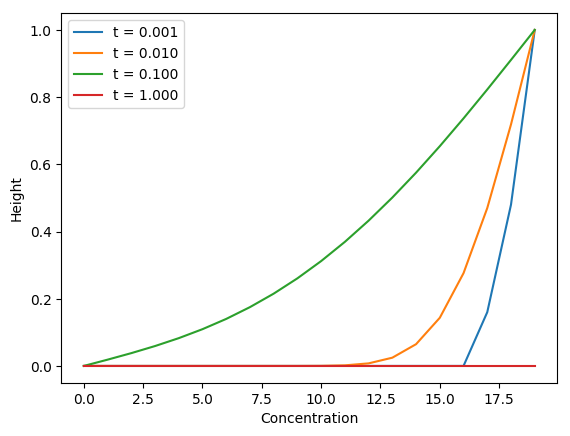
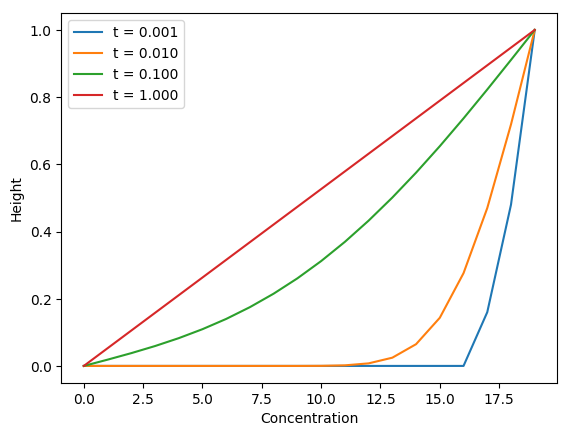
1.F Plot of state of the system

diff --git a/diffusion.py b/diffusion.py
@@ -14,6 +14,9 @@ def diffusion_func(grid, pt, i, j, D, N, delta_t, dx):
     # Bottom boundary condition.
     if (j == 0):
         return 0
+    # Incase no previous data.
+    if pt < 0:
+        return 0
     return (
         grid[pt][i][j] + (delta_t * D / dx ** 2) * (
             # Wrap around on the x-axis.
@@ -49,10 +52,11 @@ def getSimulation(D, N, delta_t, final_time=None, terminate_when=None):
         print("delta_t = {}".format(delta_t, final_time, iterations))
 
     grid = np.zeros(shape=(128, N, N))
-    # Run the simulation for every time step.
+    # Run the simulation, start by populating index t = 0.
     for t in itertools.count():
         # Stop when final index reached or termination condition.
-        if (final_time and t == iterations - 1
+        # When t = iterations we stop, final index is t - 1.
+        if (final_time and t == iterations 
             or terminate_when and t > 2 and terminate_when(grid[t - 1], grid[t - 2])):
             break
         # Resize array if size reached.
@@ -63,7 +67,7 @@ def getSimulation(D, N, delta_t, final_time=None, terminate_when=None):
             for j in range(N):
                 grid[t][i][j] = diffusion_func(
                     grid, t-1, i, j, D, N, delta_t, dx)
-    return grid[:t + 1]
+    return grid[:t]
 
 
 def makeAnimation(grid, show=False, save=False,
@@ -83,16 +87,19 @@ def makeAnimation(grid, show=False, save=False,
     save_indices = [
         min(len(grid) - 1, int(save_time * len(grid) ))
         for save_time in save_times]
-    print("Saving animation at times {}".format(save_times))
+    print("Saving animation at times {} indices {}".format(
+        save_times, save_indices))
     def animate(t):
         nonlocal im
         im.remove()
         im = plt.imshow(np.flipud(grid[t].T), cmap=cm.coolwarm)
-        plt.title("t = {0:.3f}".format(save_times[save_indices.index(t)]))
+        print(t)
         if t in save_indices:
+            plt.title("t = {}".format(save_times[save_indices.index(t)]))
             plt.savefig("animation-t-{}.png".format(
                 save_times[save_indices.index(t)]))
-    print(len(grid))
+        else:
+            plt.title("t = {0:.3f}".format(t / len(grid)))
     ani = FuncAnimation(plt.gcf(), animate, frames=len(grid), interval=1)
     if show:
         plt.show()
@@ -127,8 +134,15 @@ def plotAtTimes(grid, N, times=[0.001, 0.01, 0.1, 1.0], show=False, save=False):
 
 
 if __name__ == "__main__":
-    grid = getSimulation(D=1, N=20, delta_t=0.001, final_time=1)
-    # two_epsilon = lambda a, b: (a - b < 2 * np.finfo(np.float32).eps).all()
-    # grid = getSimulation(D=1, N=20, delta_t=0.001, terminate_when=two_epsilon)
-    makeAnimation(grid, show=True, save=False)
-    # plotAtTimes(grid, N=10, show=False, save=True)
+    D = 1
+    N = 20
+    delta_t = 0.001
+    final_time = 1
+    two_epsilon = lambda a, b: (a - b < 2 * np.finfo(np.float32).eps).all()
+
+    grid = getSimulation(D=D, N=N, delta_t=delta_t, final_time=final_time)
+    # grid = getSimulation(
+        # D=1, N=20, delta_t=delta_t, terminate_when=two_epsilon)
+
+    # makeAnimation(grid, show=True, save=True)
+    plotAtTimes(grid, N=N, show=False, save=True)
